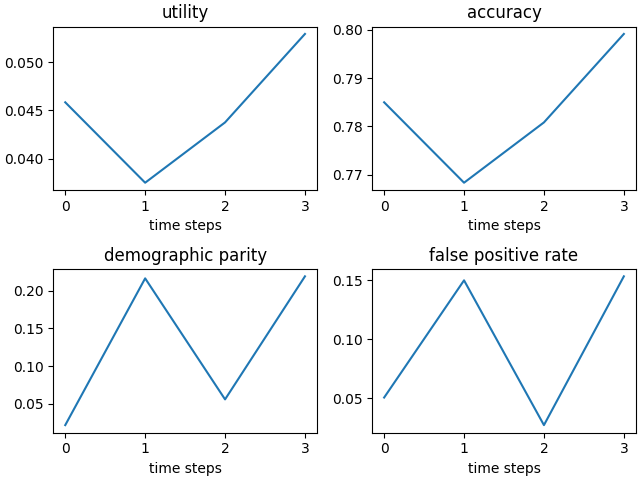
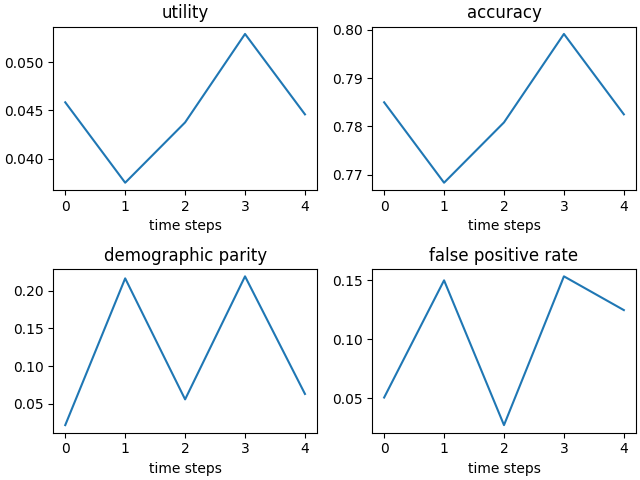
second changes

diff --git a/results/2020-06-11-14-24-37_Oracle_Uncalibrated_DP/eps_0.1/my_results.tex b/results/2020-06-11-14-24-37_Oracle_Uncalibrated_DP/eps_0.1/my_results.tex
@@ -17,18 +17,16 @@ xlabel={time steps},
 xmin=-0.2, xmax=4.2,
 xtick style={color=black},
 y grid style={white!69.0196078431373!black},
-ymin=0.0367291666666667, ymax=0.0536875,
-ytick style={color=black},
-ytick={0.035,0.04,0.045,0.05,0.055},
-yticklabels={0.035,0.040,0.045,0.050,0.055}
+ymin=0.0191458333333333, ymax=0.0471041666666667,
+ytick style={color=black}
 ]
 \addplot [semithick, color0]
 table {%
-0 0.0458333333333333
-1 0.0375
-2 0.04375
-3 0.0529166666666667
-4 0.0445833333333333
+0 0.0204166666666667
+1 0.0379166666666667
+2 0.045
+3 0.0404166666666667
+4 0.0458333333333333
 };
 
 \nextgroupplot[
@@ -44,16 +42,18 @@ xlabel={time steps},
 xmin=-0.2, xmax=4.2,
 xtick style={color=black},
 y grid style={white!69.0196078431373!black},
-ymin=0.766791666666667, ymax=0.800708333333333,
-ytick style={color=black}
+ymin=0.739958333333333, ymax=0.795875,
+ytick style={color=black},
+ytick={0.72,0.74,0.76,0.78,0.8},
+yticklabels={0.72,0.74,0.76,0.78,0.80}
 ]
 \addplot [semithick, color0]
 table {%
-0 0.785
-1 0.768333333333333
-2 0.780833333333333
-3 0.799166666666667
-4 0.7825
+0 0.7425
+1 0.7775
+2 0.791666666666667
+3 0.7825
+4 0.793333333333333
 };
 
 \nextgroupplot[
@@ -69,18 +69,18 @@ xlabel={time steps},
 xmin=-0.2, xmax=4.2,
 xtick style={color=black},
 y grid style={white!69.0196078431373!black},
-ymin=0.0113446358764056, ymax=0.229367857767998,
+ymin=0.00593258483158711, ymax=0.222727196952648,
 ytick style={color=black},
 ytick={0,0.05,0.1,0.15,0.2,0.25},
 yticklabels={0.00,0.05,0.10,0.15,0.20,0.25}
 ]
 \addplot [semithick, color0]
 table {%
-0 0.0212547823260234
-1 0.216765438890417
-2 0.0555374959365857
-3 0.21945771131838
-4 0.0627891275536996
+0 0.21287289640169
+1 0.0686737849349437
+2 0.149000191709801
+3 0.0732914905853817
+4 0.0157868853825444
 };
 
 \nextgroupplot[
@@ -96,18 +96,18 @@ xlabel={time steps},
 xmin=-0.2, xmax=4.2,
 xtick style={color=black},
 y grid style={white!69.0196078431373!black},
-ymin=0.0211568181423536, ymax=0.159676327076351,
+ymin=-0.000646078414681887, ymax=0.184357071111187,
 ytick style={color=black},
-ytick={0,0.05,0.1,0.15,0.2},
-yticklabels={0.00,0.05,0.10,0.15,0.20}
+ytick={-0.05,0,0.05,0.1,0.15,0.2},
+yticklabels={−0.05,0.00,0.05,0.10,0.15,0.20}
 ]
 \addplot [semithick, color0]
 table {%
-0 0.0507967378029369
-1 0.149993922450468
-2 0.0274531594575353
-3 0.15337998576117
-4 0.124803926675812
+0 0.175947837041829
+1 0.00776315565467578
+2 0.0850542229183336
+3 0.124488556722677
+4 0.0351271443731309
 };
 \end{groupplot}
 

diff --git a/results/2020-06-11-14-24-37_Oracle_Uncalibrated_DP/eps_0.09/my_results.tex b/results/2020-06-11-14-24-37_Oracle_Uncalibrated_DP/eps_0.09/my_results.tex
@@ -17,18 +17,16 @@ xlabel={time steps},
 xmin=-0.2, xmax=4.2,
 xtick style={color=black},
 y grid style={white!69.0196078431373!black},
-ymin=0.0367291666666667, ymax=0.0536875,
-ytick style={color=black},
-ytick={0.035,0.04,0.045,0.05,0.055},
-yticklabels={0.035,0.040,0.045,0.050,0.055}
+ymin=0.0400625, ymax=0.0570208333333333,
+ytick style={color=black}
 ]
 \addplot [semithick, color0]
 table {%
-0 0.0458333333333333
-1 0.0375
-2 0.04375
-3 0.0529166666666667
-4 0.0445833333333333
+0 0.0466666666666667
+1 0.0445833333333333
+2 0.0408333333333333
+3 0.05625
+4 0.0433333333333333
 };
 
 \nextgroupplot[
@@ -44,16 +42,16 @@ xlabel={time steps},
 xmin=-0.2, xmax=4.2,
 xtick style={color=black},
 y grid style={white!69.0196078431373!black},
-ymin=0.766791666666667, ymax=0.800708333333333,
+ymin=0.762625, ymax=0.796541666666667,
 ytick style={color=black}
 ]
 \addplot [semithick, color0]
 table {%
-0 0.785
-1 0.768333333333333
-2 0.780833333333333
-3 0.799166666666667
-4 0.7825
+0 0.775833333333333
+1 0.771666666666667
+2 0.764166666666667
+3 0.795
+4 0.769166666666667
 };
 
 \nextgroupplot[
@@ -69,18 +67,18 @@ xlabel={time steps},
 xmin=-0.2, xmax=4.2,
 xtick style={color=black},
 y grid style={white!69.0196078431373!black},
-ymin=0.0113446358764056, ymax=0.229367857767998,
+ymin=0.0845606928225517, ymax=0.212372783876372,
 ytick style={color=black},
-ytick={0,0.05,0.1,0.15,0.2,0.25},
-yticklabels={0.00,0.05,0.10,0.15,0.20,0.25}
+ytick={0.05,0.1,0.15,0.2,0.25},
+yticklabels={0.05,0.10,0.15,0.20,0.25}
 ]
 \addplot [semithick, color0]
 table {%
-0 0.0212547823260234
-1 0.216765438890417
-2 0.0555374959365857
-3 0.21945771131838
-4 0.0627891275536996
+0 0.134063497620298
+1 0.168696289998583
+2 0.206563143373926
+3 0.177514940861694
+4 0.0903703333249981
 };
 
 \nextgroupplot[
@@ -96,18 +94,18 @@ xlabel={time steps},
 xmin=-0.2, xmax=4.2,
 xtick style={color=black},
 y grid style={white!69.0196078431373!black},
-ymin=0.0211568181423536, ymax=0.159676327076351,
+ymin=0.0561894985616921, ymax=0.162015540887335,
 ytick style={color=black},
-ytick={0,0.05,0.1,0.15,0.2},
-yticklabels={0.00,0.05,0.10,0.15,0.20}
+ytick={0.05,0.075,0.1,0.125,0.15,0.175},
+yticklabels={0.050,0.075,0.100,0.125,0.150,0.175}
 ]
 \addplot [semithick, color0]
 table {%
-0 0.0507967378029369
-1 0.149993922450468
-2 0.0274531594575353
-3 0.15337998576117
-4 0.124803926675812
+0 0.0871280392461118
+1 0.112253667386815
+2 0.157205266236169
+3 0.110785519044152
+4 0.0609997732128576
 };
 \end{groupplot}
 
